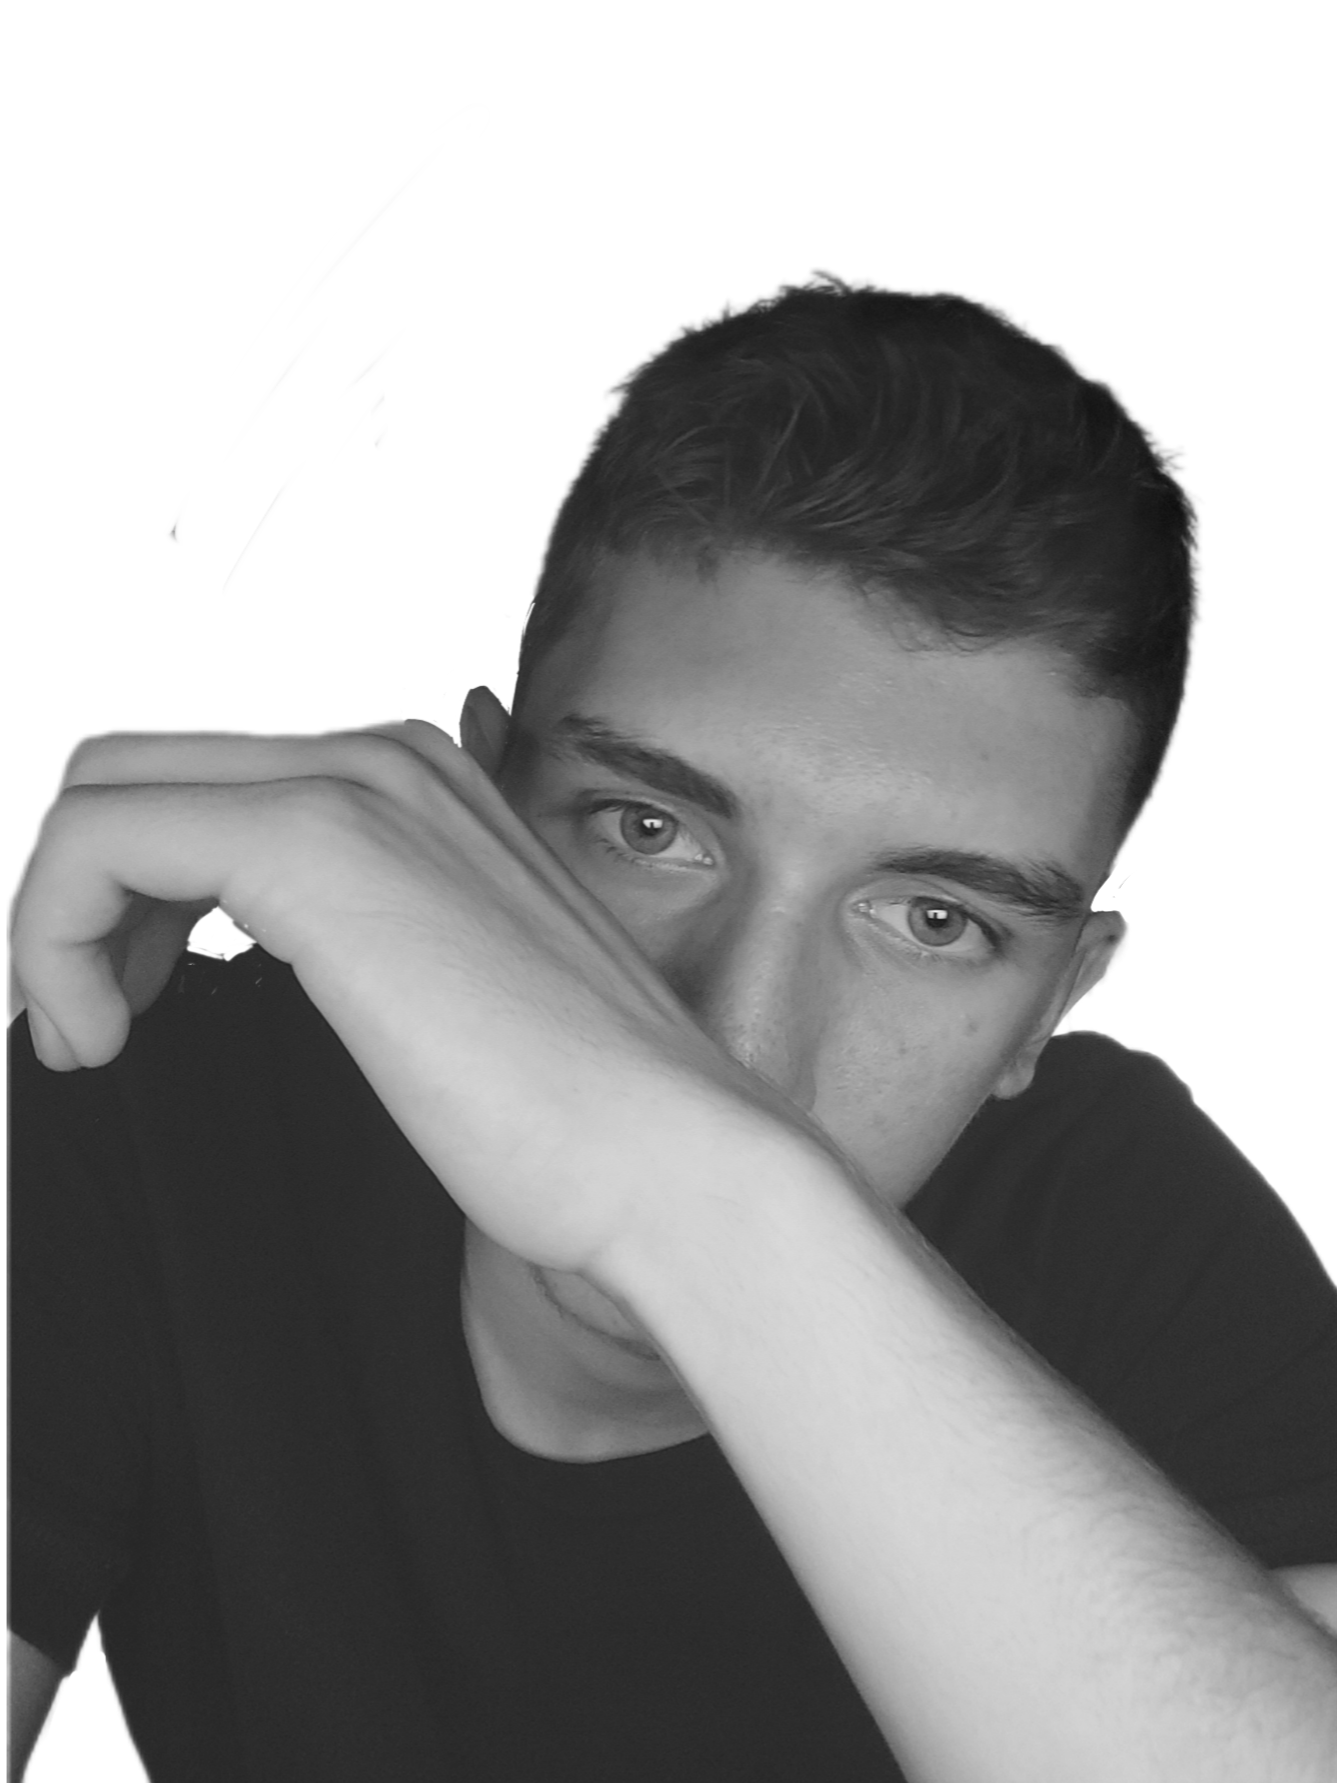
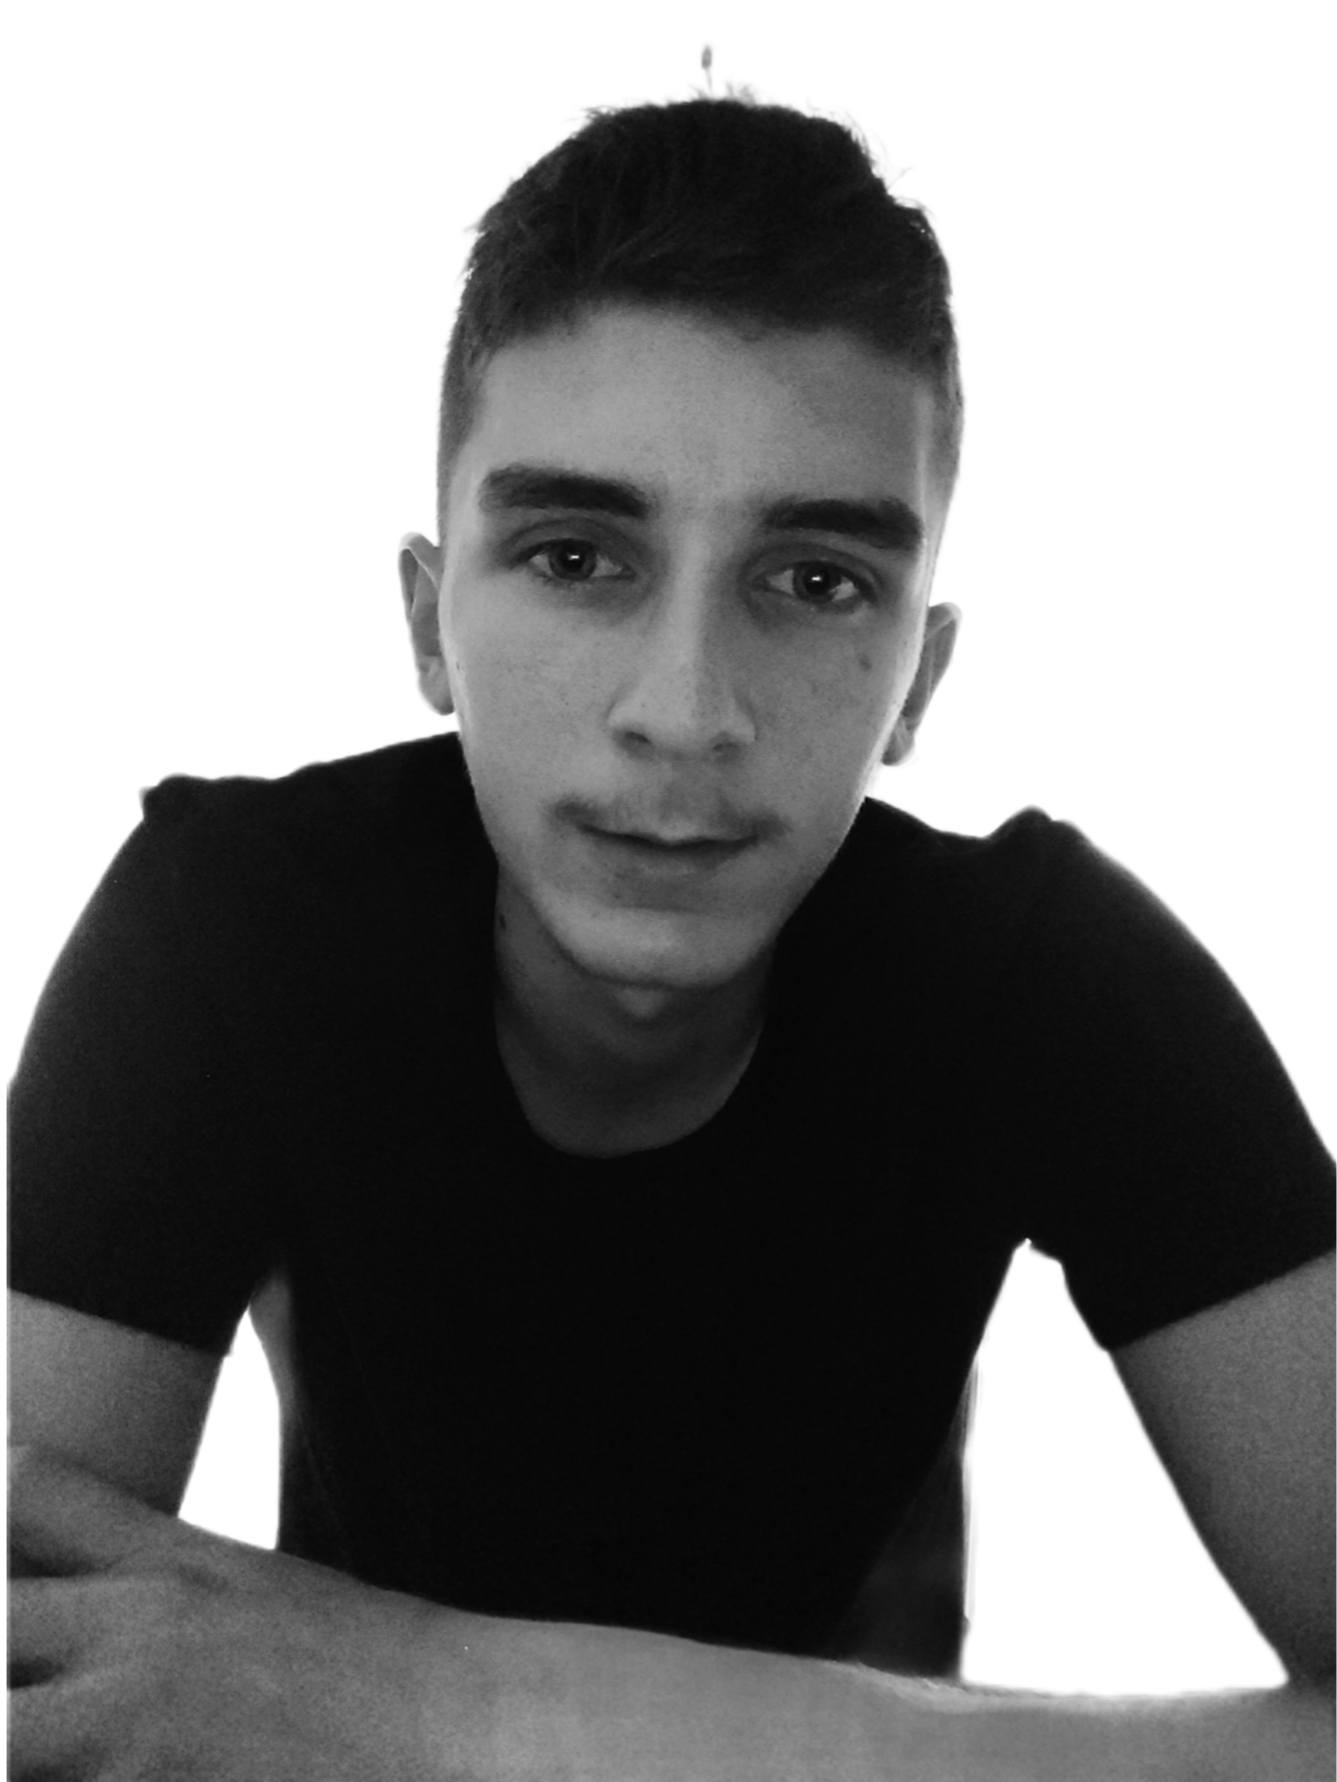
Css updated

diff --git a/style.css b/style.css
@@ -100,7 +100,7 @@ nav .fas{
 .profilepic{
     width: 100%;
     border-radius: 30px;
-    margin-left: 150px;
+    margin-left: 100px;
     width: auto;
     height: 400px;
     
@@ -441,6 +441,8 @@ form input,form textarea{
     .row1 img{
         width: auto;
         height: 500px;
+        margin-left: 0;
+        align-items: center;
         border-radius: 30px;
     }
     .row2{

diff --git a/index.html b/index.html
@@ -40,7 +40,7 @@
         <div class="container">
             <div class="row">
                 <div class="row1">
-                    <img src="assets/p2.png" class="profilepic">
+                    <img src="assets/p1.png" class="profilepic">
                 </div>
                 <div class="row2">
                     <h1 class="row2-text">Bio</h1>
